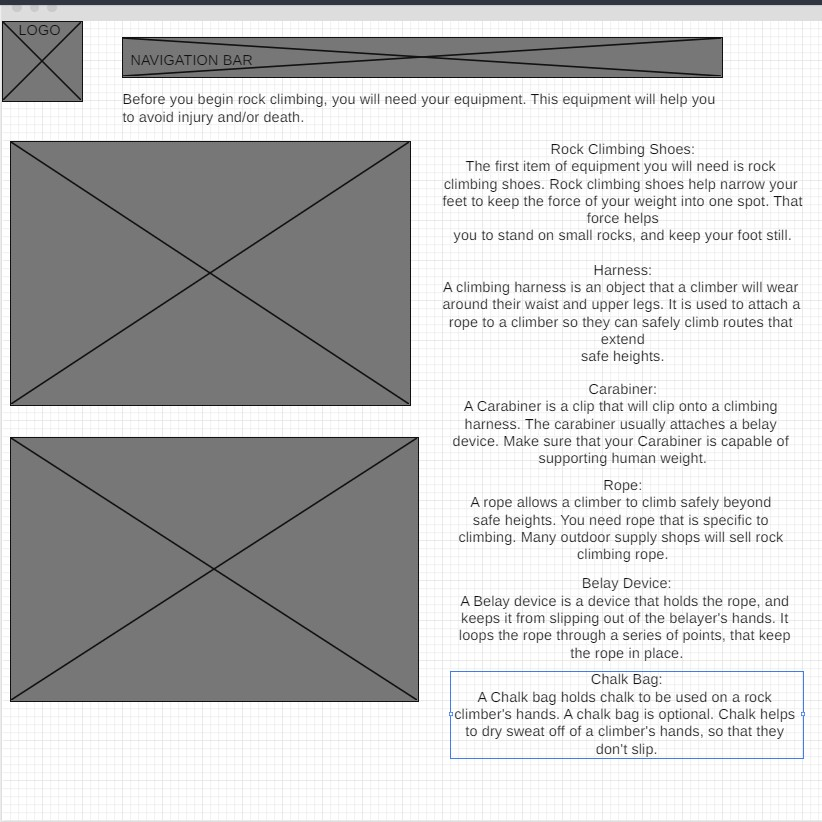
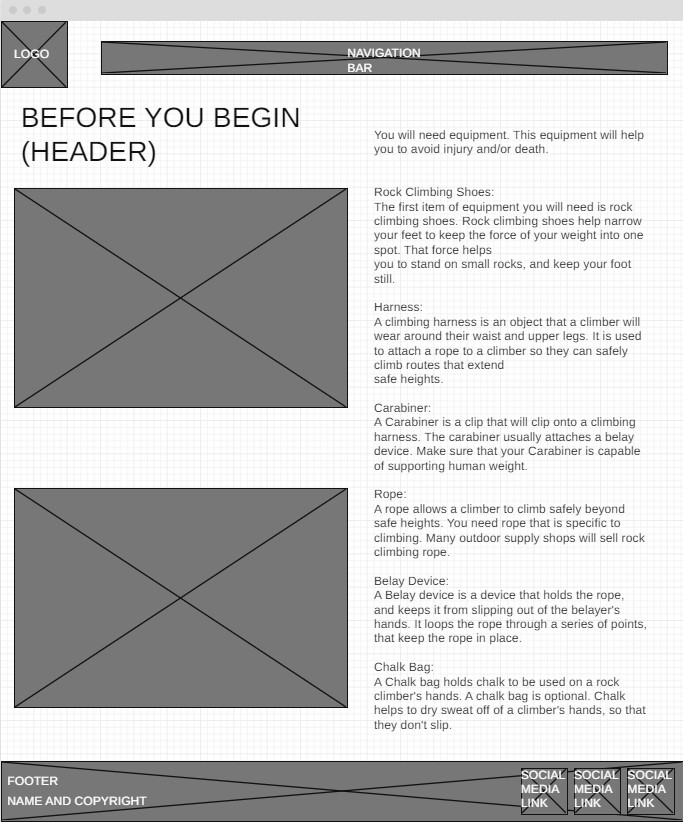
personal-site site-plan

diff --git a/rock-climbing-info/site-plan.html b/rock-climbing-info/site-plan.html
@@ -205,23 +205,15 @@ A Chalk bag holds chalk to be used on a rock climber's hands. A chalk bag is opt
         Create three wireframes for your site. One for each page and list them here</p>
 
       <h3>Home</h3>
-      <p>         
-        [Any additional details about home that the wireframe does not make clear]
-      </p>
-      <img src="#" alt="home page wireframe">
+      <img src="images/home-page-wireframe.jpg" alt="home page wireframe">
 
       <h3>[Page 2]</h3>
-      <p>         
-        [Any additional details about page 2 that the wireframe does not make clear]
-      </p>
-      <img src="#" alt="page 2 wireframe">
+      <img src="images/sub-page-climbing-gear-wireframe.jpg" alt="page 2 wireframe">
 
       <h3>[Page 3]</h3>
-      <p>         
-        [Any additional details about page 3 that the wireframe does not make clear]
-      </p>
-      <img src="#" alt="page 3 wireframe">
+      <img src="images/sub-page-climbing-types-wireframe.jpg" alt="page 3 wireframe">
     </main>
   
 
-</body></html>
+</body>
+</html>
